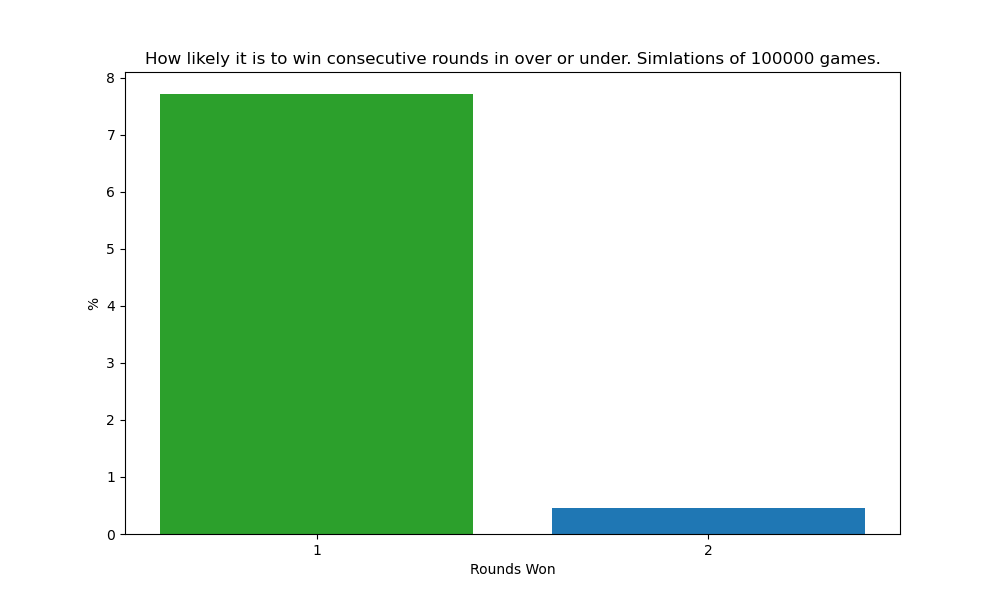
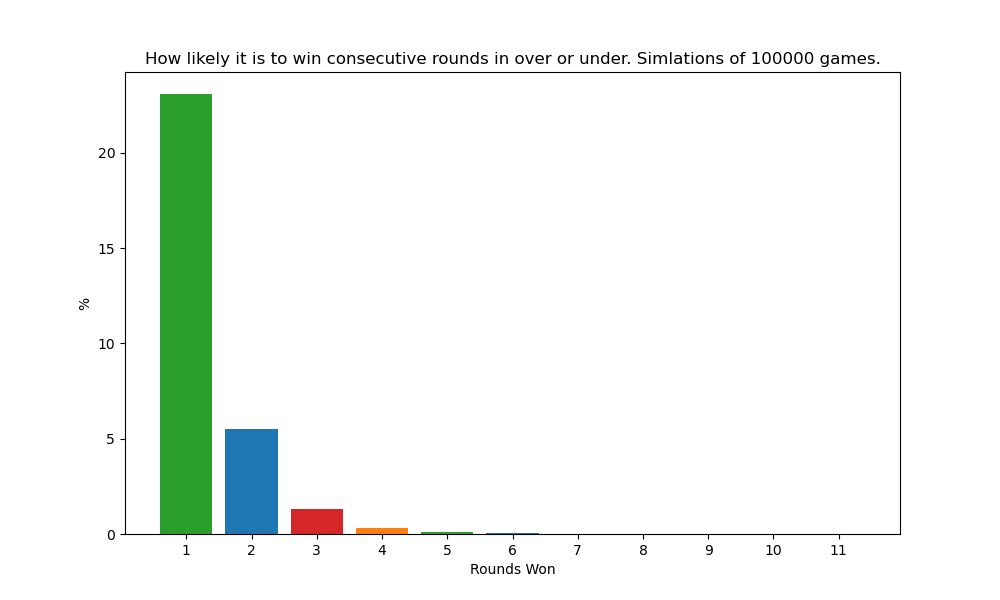
certified best strat, which is stupid, actually

diff --git a/card_game.py b/card_game.py
@@ -1,20 +1,45 @@
+#type: ignore
+
 import random
 import pandas as pd
 import tqdm
 import matplotlib.pyplot as plt
+
+
 
 class Player:
     def __init__(self):
         self.unseen_cards = {i: 4 for i in range(1, 14)}
 
     def make_first_guess(self):
-        return 1
+        candidate_unseen = {k: v for k, v in self.unseen_cards.items() if k != 1 and k != 13}
+        max_val = candidate_unseen[max(candidate_unseen)]
+        max_cards = [k for k, v in candidate_unseen.items() if v == max_val]
+        max_cards.sort()
+        if len(max_cards) == 0:
+            if 0 < self.unseen_cards[1]:
+                return 1
+            assert 0 < self.unseen_cards[13]
+            return 13
+        elif len(max_cards) == 1:
+            choice = max_cards[0]
+        else:
+            choice = max_cards[1]
+        assert choice != 1 and choice != 13
+        return choice
 
-    def make_second_guess(self, is_over):
-        return 1
+    def make_second_guess(self, is_over, first_guess):
+        max_val = max(self.unseen_cards.values())
+        if is_over:
+            max_cards = [k for k, v in self.unseen_cards.items() if v == max_val and first_guess < k]
+        else:
+            max_cards = [k for k, v in self.unseen_cards.items() if v == max_val and first_guess > k]
+        assert 0 < len(max_cards)
+        return max_cards[0]
 
     def found_card(self, i):
-        self.unseen_cards
+        self.unseen_cards[i] -= 1
+        assert 0 <= self.unseen_cards[i]
         return
 
 class Deck:
@@ -28,22 +53,21 @@ class Deck:
         guessing_number = player.make_first_guess()
         cardIndex = random.randint(0, len(self.cards) - 1)
         selected_card = self.cards.pop(cardIndex)
-
         if guessing_number == selected_card:
             player.found_card(guessing_number)
             self.rounds_won += 1
             return True
 
         elif selected_card > guessing_number:
-            guessing_number = player.make_second_guess(True)
+            guessing_number = player.make_second_guess(True, guessing_number)
             if selected_card == guessing_number:
                 player.found_card(guessing_number)
                 self.rounds_won += 1
                 return True
 
         elif selected_card < guessing_number:
-            guessing_number = player.make_second_guess(False)
-            if selected_card == new_guess:
+            guessing_number = player.make_second_guess(False, guessing_number)
+            if selected_card == guessing_number:
                 player.found_card(guessing_number)
                 self.rounds_won += 1
                 return True
@@ -72,7 +96,7 @@ def get_win_percentage(win_list: list) -> list:
 
 if __name__ == "__main__":
     win_list = []
-    for _ in tqdm.tqdm(range(100000)):
+    for _ in range(100000):
         deck = Deck()
         win_list.append(deck.play_game())
 
